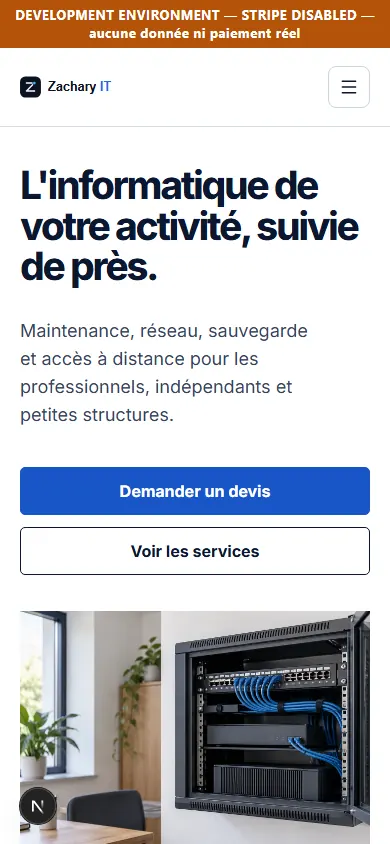
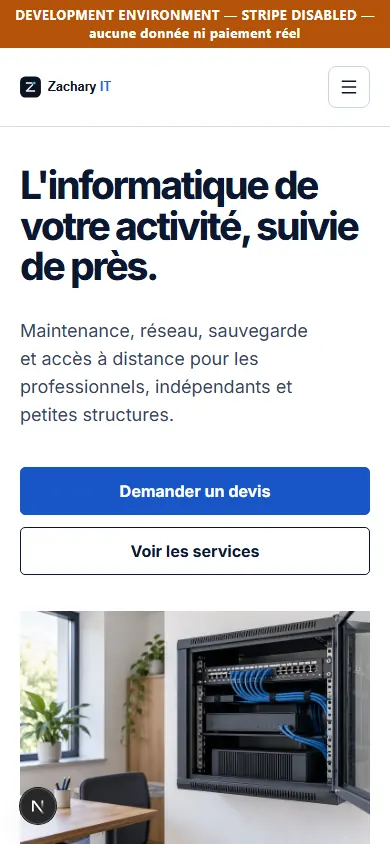
fix(web): stabiliser le chargement et réparer le parcours accès distant

Changed region(s): [[0.0308, 0.7085, 0.9538, 1.0]]

diff --git a/apps/webportal/app/site-refonte.css b/apps/webportal/app/site-refonte.css
@@ -94,7 +94,8 @@ button:disabled { cursor: not-allowed; }
 .vitrine-hero-2026 .button-secondary { border-color: var(--site-ink); color: var(--site-ink); background: transparent; }
 .vitrine-hero-2026 .button-secondary:hover,
 .vitrine-hero-2026 .button-secondary:focus-visible { border-color: var(--site-blue); color: var(--site-blue); background: transparent; }
-.vitrine-hero-media { width: 100%; min-height: 390px; aspect-ratio: 1.5; background: var(--site-soft) url('/brand/network-office-editorial.webp') center / cover no-repeat; }
+.vitrine-hero-media { width: 100%; background: var(--site-soft); }
+.vitrine-hero-media img { display: block; width: 100%; height: auto; aspect-ratio: 3 / 2; object-fit: cover; }
 
 .vitrine-audiences,
 .vitrine-method,
@@ -194,6 +195,25 @@ button:disabled { cursor: not-allowed; }
 .public-main .service-cta .button-secondary:hover { color: var(--site-ink); background: #fff; }
 .public-main .service-category-proof p { color: var(--site-body); }
 
+.compare-guide { width: min(var(--site-content), 100%); margin-inline: auto; }
+.compare-guide-header { max-width: 940px; padding: 0 0 56px; }
+.compare-guide-header h1 { margin: 0 0 22px; font-size: clamp(40px, 4.4vw, 64px); line-height: 1.08; }
+.compare-guide-header p { max-width: 68ch; margin: 0; color: var(--site-body); font-size: 19px; line-height: 1.6; }
+.compare-guide-options { display: grid; grid-template-columns: repeat(2, minmax(0, 1fr)); gap: 44px; }
+.compare-guide-options section { padding-block: 28px; border-top: 1px solid var(--site-line); }
+.compare-guide-options h2 { margin: 0 0 16px; font-size: clamp(26px, 2.6vw, 36px); }
+.compare-guide-options p { max-width: 60ch; color: var(--site-body); line-height: 1.65; }
+.compare-guide-options a { margin-top: 8px; }
+.compare-guide-questions { display: grid; grid-template-columns: minmax(240px, .8fr) minmax(0, 1.2fr); gap: 60px; padding-block: var(--site-section); border-top: 1px solid var(--site-line); }
+.compare-guide-questions h2 { font-size: clamp(28px, 3vw, 40px); line-height: 1.2; }
+.compare-guide-questions p { color: var(--site-body); }
+.compare-guide-questions ul { display: grid; gap: 0; margin: 0; padding: 0; list-style: none; }
+.compare-guide-questions li { padding: 18px 0; border-top: 1px solid var(--site-line); font-weight: 600; }
+.compare-guide-next { display: flex; align-items: center; justify-content: space-between; gap: 32px; padding: 36px; color: #fff; background: var(--site-ink); }
+.compare-guide-next h2 { color: #fff; font-size: 30px; }
+.compare-guide-next p { max-width: 65ch; margin: 0; color: #d3ddec; }
+.compare-guide-next .button { flex: 0 0 auto; }
+
 /* Commercial pages keep server prices and actions but lose repeated tiles. */
 .offres-page { left: auto; width: min(var(--site-content), 100%); overflow-x: clip; transform: none; gap: 54px; }
 .offres-page > *,
@@ -282,6 +302,13 @@ button:disabled { cursor: not-allowed; }
 .app-content .metric-card,
 .app-content .form-card { border-color: var(--site-line); border-radius: var(--site-radius); box-shadow: none; }
 .app-content .button { border-radius: var(--site-radius); }
+.route-loading-shell { width: 100%; padding-top: 24px; }
+.page-builder-live-preview .vitrine-hero-2026 { grid-template-columns: 1fr; min-height: 0; padding: 24px; background: var(--site-white); }
+.page-builder-live-preview .vitrine-hero-2026::before,
+.page-builder-live-preview .vitrine-hero-media { display: none; }
+.page-builder-live-preview .vitrine-hero-2026 .vitrine-hero-copy h1 { color: var(--site-ink); font-size: clamp(26px, 3vw, 36px); }
+.page-builder-live-preview .vitrine-hero-2026 .vitrine-hero-lead { color: var(--site-body); }
+.page-builder-live-preview .vitrine-hero-2026 .button-secondary { border-color: var(--site-ink); color: var(--site-ink); }
 
 @media (max-width: 1100px) {
   .public-header-inner { width: calc(100% - 2 * var(--site-gutter)); }
@@ -295,7 +322,7 @@ button:disabled { cursor: not-allowed; }
 @media (max-width: 820px) {
   .vitrine-hero-2026 { min-height: 0; grid-template-columns: 1fr; gap: 36px; padding-block: 50px; }
   .vitrine-hero-copy { max-width: 700px; }
-  .vitrine-hero-media { min-height: 320px; aspect-ratio: 1.8; }
+  .vitrine-hero-media { min-height: 0; aspect-ratio: auto; }
   .vitrine-services,
   .services-landing-page .service-problem-routing { grid-template-columns: 1fr; gap: 28px; }
   .vitrine-audiences-grid,
@@ -312,6 +339,9 @@ button:disabled { cursor: not-allowed; }
   .contact-page .site-page-widget-contact_form,
   .contact-page .signup-steps-card { grid-column: 1; }
   .contact-page .signup-steps-card { grid-row: auto; margin-top: 40px; padding: 25px 0 0; border-left: 0; border-top: 1px solid var(--site-line); }
+  .compare-guide-options,
+  .compare-guide-questions { grid-template-columns: 1fr; gap: 24px; }
+  .compare-guide-next { align-items: flex-start; flex-direction: column; }
 }
 
 @media (max-width: 600px) {
@@ -323,7 +353,7 @@ button:disabled { cursor: not-allowed; }
   .vitrine-hero-2026 .vitrine-hero-copy h1 { font-size: clamp(36px, 10vw, 48px); }
   .vitrine-hero-2026 .vitrine-hero-actions { display: grid; width: 100%; }
   .vitrine-hero-2026 .vitrine-hero-actions .button { width: 100%; justify-content: center; }
-  .vitrine-hero-media { min-height: 245px; aspect-ratio: 1.35; }
+  .vitrine-hero-media { min-height: 0; aspect-ratio: auto; }
   .vitrine-service-card { grid-template-columns: 1fr; }
   .vitrine-service-card a { grid-column: 1; grid-row: auto; }
   .services-landing-page .services-problem-grid article { grid-template-columns: 1fr; }

diff --git a/apps/webportal/app/vpn-ou-bureau-a-distance-que-choisir/page.tsx b/apps/webportal/app/vpn-ou-bureau-a-distance-que-choisir/page.tsx
@@ -1,0 +1,90 @@
+import type { Metadata } from "next";
+import Link from "next/link";
+
+import { ServiceBreadcrumb } from "@/components/PublicServiceComponents";
+import { buildPublicMetadata } from "@/lib/public-metadata";
+import { PUBLIC_SITE_URL } from "@/lib/public-route-config";
+import { breadcrumbJsonLd, JsonLd } from "@/lib/seo";
+
+const path = "/vpn-ou-bureau-a-distance-que-choisir";
+
+export const metadata: Metadata = buildPublicMetadata({
+  title: "VPN ou bureau Windows à distance : choisir selon vos usages",
+  description: "Accès VPN ou bureau Windows à distance : comprenez ce que chaque solution permet et les points à vérifier pour votre activité avec Zachary IT.",
+  path,
+});
+
+export const dynamic = "force-dynamic";
+
+const breadcrumb = [
+  { name: "Services", path: "/services" },
+  { name: "Accès à distance", path },
+];
+
+export default function RemoteAccessComparisonPage() {
+  return (
+    <>
+      <JsonLd data={breadcrumbJsonLd(PUBLIC_SITE_URL, breadcrumb)} />
+      <article className="compare-guide">
+        <ServiceBreadcrumb items={breadcrumb} />
+        <header className="compare-guide-header">
+          <h1>VPN ou bureau Windows à distance : que choisir ?</h1>
+          <p>
+            Ces deux solutions permettent de travailler hors des locaux, mais
+            elles ne donnent pas accès aux outils de la même manière. Le bon
+            choix dépend de vos logiciels, de vos fichiers et des personnes concernées.
+          </p>
+        </header>
+
+        <div className="compare-guide-options">
+          <section aria-labelledby="vpn-guide-title">
+            <h2 id="vpn-guide-title">Accès VPN</h2>
+            <p>
+              Vous gardez votre poste habituel. Une connexion privée vous donne
+              accès aux fichiers ou services autorisés, sans les ouvrir à tout Internet.
+              Les droits des utilisateurs et les ressources accessibles sont à définir.
+            </p>
+            <Link className="service-inline-link" href="/services/vpn-entreprise">
+              Découvrir l&apos;accès VPN
+            </Link>
+          </section>
+          <section aria-labelledby="desktop-guide-title">
+            <h2 id="desktop-guide-title">Bureau Windows à distance</h2>
+            <p>
+              Vous ouvrez un environnement Windows complet depuis un autre appareil.
+              Les logiciels s&apos;exécutent dans ce bureau distant ; il faut vérifier
+              les applications, les données et les périphériques à utiliser.
+            </p>
+            <Link className="service-inline-link" href="/services/bureau-windows-distance">
+              Découvrir le bureau à distance
+            </Link>
+          </section>
+        </div>
+
+        <section className="compare-guide-questions" aria-labelledby="guide-questions-title">
+          <div>
+            <h2 id="guide-questions-title">Les questions à trancher avant un devis</h2>
+            <p>Décrivez les usages avant de choisir une technologie ou une offre.</p>
+          </div>
+          <ul>
+            <li>Quels logiciels doivent fonctionner à distance ?</li>
+            <li>Quels fichiers et services chaque personne doit-elle retrouver ?</li>
+            <li>Combien de personnes et quels appareils sont concernés ?</li>
+            <li>Qui administrera les accès, les mises à jour et les sauvegardes ?</li>
+          </ul>
+        </section>
+
+        <section className="compare-guide-next" aria-labelledby="guide-next-title">
+          <div>
+            <h2 id="guide-next-title">Parlons de votre situation</h2>
+            <p>
+              Un accès distant ne remplace pas la sauvegarde des données. Décrivez
+              votre environnement et nous préciserons le périmètre utile.
+            </p>
+          </div>
+          <Link className="button" href="/contact">Demander un devis</Link>
+        </section>
+      </article>
+    </>
+  );
+}

diff --git a/apps/webportal/components/SitePageFrame.tsx b/apps/webportal/components/SitePageFrame.tsx
@@ -66,7 +66,12 @@ function SitePageBlockView({ block, area, slots, preview, previewLabels }: {
         <div className="vitrine-hero-actions">
           {block.href ? <Link className="button" href={block.href}>{block.label ?? "Découvrir"}</Link> : null}
           {items[0]?.href ? <Link className="button button-secondary" href={items[0].href}>{items[0].title}</Link> : null}
-        </div></div><div aria-hidden="true" className="vitrine-hero-media" style={block.mediaId ? { backgroundImage: `url(/api/site-media/${encodeURIComponent(block.mediaId)})` } : undefined} />
+        </div></div><div aria-hidden="true" className="vitrine-hero-media">
+          <Image alt="" fetchPriority="high" height={1024} loading="eager"
+            sizes="(max-width: 820px) 100vw, 50vw"
+            src={block.mediaId ? `/api/site-media/${encodeURIComponent(block.mediaId)}` : "/brand/network-office-editorial.webp"}
+            unoptimized width={1536} />
+        </div>
     </div></section>;
   if (block.type === "audiences") return <section className="vitrine-audiences vitrine-audiences-first">
     <header className="vitrine-section-header"><h2>{block.title}</h2><p>{block.body}</p></header>

diff --git a/apps/webportal/app/page.tsx b/apps/webportal/app/page.tsx
@@ -1,5 +1,6 @@
 import type { Metadata } from "next";
 import Link from "next/link";
+import Image from "next/image";
 import { headers } from "next/headers";
 import { notFound, redirect } from "next/navigation";
 
@@ -186,7 +187,18 @@ export default async function HomePage() {
               </Link>
             </div>
           </div>
-          <div aria-hidden="true" className="vitrine-hero-media" />
+          <div aria-hidden="true" className="vitrine-hero-media">
+            <Image
+              alt=""
+              fetchPriority="high"
+              height={1024}
+              loading="eager"
+              sizes="(max-width: 820px) 100vw, 50vw"
+              src="/brand/network-office-editorial.webp"
+              unoptimized
+              width={1536}
+            />
+          </div>
         </div>
       </section>
 

diff --git a/apps/webportal/app/sitemap.ts b/apps/webportal/app/sitemap.ts
@@ -38,6 +38,7 @@ const PUBLIC_ROUTE_ENTRIES: PublicRouteEntry[] = [
   { path: "/", changeFrequency: "monthly", priority: 1 },
   { path: "/offres", changeFrequency: "weekly", priority: 0.9 },
   { path: "/services", changeFrequency: "monthly", priority: 0.9, contentKey: "storefront:services" },
+  { path: "/vpn-ou-bureau-a-distance-que-choisir", changeFrequency: "monthly", priority: 0.7 },
   { path: "/tarifs", changeFrequency: "monthly", priority: 0.85, contentKey: "storefront:tarifs" },
   // Les pages `/formules/<code>` ne sont pas declarees : ce sont des
   // configurateurs dont le contenu depend d'une selection, pas des pages

diff --git a/apps/webportal/app/loading.tsx b/apps/webportal/app/loading.tsx
@@ -2,9 +2,11 @@ import { LoadingState } from "@/components/LoadingState";
 
 export default function Loading() {
   return (
-    <LoadingState
-      description="Votre espace client prépare les informations demandées."
-      title="Chargement de votre espace"
-    />
+    <div className="route-loading-shell" style={{ minHeight: "100vh" }}>
+      <LoadingState
+        description="Les informations de cette page sont en cours de récupération."
+        title="Chargement de la page"
+      />
+    </div>
   );
 }

diff --git a/apps/webportal/lib/public-route-config.ts b/apps/webportal/lib/public-route-config.ts
@@ -18,6 +18,7 @@ export const PUBLIC_ROUTES = [
   // La même route reste l'espace « Mes services » sur l'hôte dashboard.
   // AppShell sélectionne le shell selon l'hôte pour préserver ce parcours.
   "/services",
+  "/vpn-ou-bureau-a-distance-que-choisir",
   "/wiki",
   "/decouvrir-espace-client",
   "/mentions-legales",

diff --git a/apps/webportal/app/layout.tsx b/apps/webportal/app/layout.tsx
@@ -23,6 +23,7 @@ const inter = localFont({
 const jetbrainsMono = localFont({
   src: "../assets/fonts/jetbrains-mono-latin-variable.woff2",
   display: "swap",
+  preload: false,
   weight: "100 800",
   variable: "--font-jetbrains-mono",
 });

diff --git a/docs/audit-site.md b/docs/audit-site.md
@@ -1,7 +1,8 @@
 # Audit initial du site Zachary IT
 
-**Date :** 28 octobre 2026  
-**Base examinée :** `main` à `5ce2898`, puis branche `codex/zachary-it-refonte`.  
+**Date :** 28 octobre 2026
+
+**Base examinée :** `main` à `5ce2898`, puis branche `codex/zachary-it-refonte`.
 **Périmètre :** vitrine Next.js, parcours publics, enveloppes client/admin, contenu éditorial, BFF et dépendances utiles à la refonte. Les données CMS persistées et les parcours authentifiés de DEV demandent une vérification distincte ; l'analyse du dépôt ne les prouve pas.
 
 ## État initial et méthode
@@ -33,7 +34,9 @@ Les constats ci-dessous sont classés **VALIDE**, **FAUX POSITIF** ou **INCERTAI
 | **VALIDE** | L'accueil contient deux sources de texte : `app/page.tsx:36-99` et `Services/SitePageService.cs:684-735`. `SitePageFrame.tsx:36-45` affiche les blocs CMS quand un layout existe ; il n'affiche le JSX de repli qu'en son absence. | Modifier uniquement `page.tsx` ne change pas l'accueil CMS existant. La publication d'un nouveau layout en base reste une opération distincte. | Aligner le rendu, le repli et les valeurs initiales ; vérifier séparément les contenus persistés de DEV. Préserver les personnalisations CMS. |
 | **VALIDE** | La page d'accueil ouvre avec « Une informatique fiable, simplement » et une liste générique de cinq besoins (`app/page.tsx:173-237`, mêmes blocs dans `SitePageService.cs`). Les liens des trois publics mènent tous à `/services`. | L'activité B2B et les prestations concrètes restent peu visibles ; le visiteur doit chercher le parcours approprié. | Énoncer immédiatement l'offre et le public, lier chaque besoin à une page utile, réduire les répétitions et hiérarchiser les parcours. |
 | **VALIDE** | `app/globals.css` dépasse 10 000 lignes et redéfinit les mêmes familles de sélecteurs à plusieurs endroits, par exemple `.vitrine-hero-2026` vers 9824 puis dans plusieurs media queries, `.public-main` vers 6140 et 9794, `.app-shell` vers 128 et 9608. | Cascade difficile à prédire ; corrections visuelles fragiles sur les pages et en responsive. | Extraire une couche de refonte ciblée avec tokens, composants et media queries cohérents ; supprimer les règles remplacées lorsqu'elles sont sûres à retirer. |
+| **VALIDE** | `app/loading.tsx` annonçait « Votre espace client » pendant le chargement de la vitrine. La séquence filmée par Lighthouse sur DEV montre d'abord un petit panneau et le pied de page dans le premier écran, puis l'accueil qui les remplace. Mesure DEV avant livraison : CLS `0,853`. | Message inadapté et fort décalage visuel avant la page réelle. | Employer un libellé neutre et réserver la hauteur de l'écran pendant le chargement ; remesurer sur la même configuration. |
 | **VALIDE** | `PublicShell.tsx:169-190` présente « Offres », « Tarifs », « À propos » et un méga menu de services, mais « Contact » est enfoui dans un CTA long. Le pied de page `PublicShell.tsx:200-244` répète plusieurs chemins et intitulés. | Navigation peu lisible pour les décideurs qui veulent comprendre les prestations, puis demander un devis. | Clarifier les entrées principales, raccourcir le CTA, organiser le pied de page par tâche, garder les routes et la connexion existantes. |
+| **VALIDE** | Le besoin « Je dois travailler à distance » dans `lib/storefront-content.ts` et le lien « Voir le comparatif détaillé » de `PublicPriorityServicePage.tsx` menaient à `/vpn-ou-bureau-a-distance-que-choisir`. Cette URL renvoyait HTTP 404 sur `dev.zachary-it.fr` le 28 octobre 2026 ; le navigateur local relevait aussi son préchargement en 404. | Deux chemins publics aboutissaient à une page inexistante. | Créer une vraie page de comparaison, avec liens vers les deux prestations existantes, puis ajouter la route à la liste publique et au sitemap. |
 
 ## Moyen
 
@@ -41,6 +44,7 @@ Les constats ci-dessous sont classés **VALIDE**, **FAUX POSITIF** ou **INCERTAI
 | --- | --- | --- | --- |
 | **VALIDE** | `app/globals.css:4592-4739` donne aux étapes, services et publics des grilles de cartes de forme presque identique. `:9931-9948` leur applique encore une même surface et ombre. | Rythme visuel monotone et aspect de gabarit assemblé. | Employer des listes éditoriales, séparateurs et blocs de service distincts ; limiter les cartes aux contenus qui le justifient. |
 | **VALIDE** | Le hero public est une image de fond `home-hero-2026.png` posée derrière le texte (`globals.css:9824-9844`) ; au plus petit écran l'image reste en fond et le `photo-spacer` disparaît (`:9877-9881`). | Lisibilité et cadrage dépendent de la photo et de la largeur. | Construire un hero à deux zones avec média réellement séparé et texte sur fond uni ; vérifier les points de rupture. |
+| **VALIDE** | Sur une compilation locale optimisée, Lighthouse signale environ 259 Ko de CSS dans le principal fichier de styles et estime 95 % de règles non utilisées sur l'accueil (`unused-css-rules`). | FCP/LCP pénalisés sur la première visite ; le CSS historique couvre tout le portail dans le layout racine. | Garder la refonte dans une couche claire puis extraire progressivement les styles hérités par route ou groupe de routes, avec tests de régression client/admin. Cette extraction générale n'est pas contenue dans le présent lot. |
 | **VALIDE** | Le contact est un seul bloc de 720 px (`globals.css:6006-6009`) ; les « étapes » et autres liens passent après le formulaire dans `SitePageService.cs:115-140`. | Le visiteur doit remplir le formulaire avant de savoir ce qu'il se passe ensuite. | Présenter une introduction et le déroulement près du formulaire, sans ajouter de promesse de délai non vérifiée. |
 | **VALIDE** | `PublicStorefrontPage.tsx:91-123` et `PublicServicesLandingPage.tsx:44-56` répètent une surétiquette « Zachary IT » avant le H1 ; `app/offres/page.tsx:59-82` emploie en plus « Nouveau » et « Espace client ». | Signal visuel répétitif et concurrence avec le vrai titre. | Supprimer les surétiquettes décoratives ; faire porter les différences par les titres et le contenu. |
 | **VALIDE** | `PublicPackCatalogService.cs:163` et `packages/shared/src/index.ts:1705` qualifiaient les tarifs du catalogue de « hors taxes », tandis que `PublicPackCard.tsx` et le tableau public affichent le point de départ « TTC / mois ». | Note commerciale contradictoire pour un visiteur qui compare les offres. | Retirer la qualification fiscale générique du texte éditorial ; laisser le prix et la taxe affichés provenir du catalogue et du moteur serveur. |

diff --git a/docs/charte-site.md b/docs/charte-site.md
@@ -10,7 +10,9 @@ Le parti pris est éditorial : fond blanc, encre bleu nuit, bleu de lien et de d
 
 La couche `apps/webportal/app/site-refonte.css` est importée après `globals.css`. Elle contient les règles nouvelles du site et les variables `--site-*`, sans changer les alias métier ni les styles des écrans transactionnels qui n'ont pas été réexaminés. Les couleurs principales sont : encre `#0b1730`, texte `#35445c`, bleu d'action `#1956c8`, trait `#d6deea`, bande douce `#eef3f9` et blanc `#fff`. L'accent orange `#f49b28` sert au focus clavier, afin que celui-ci soit visible sur fond blanc comme sur fond bleu nuit.
 
-Le contenu public ne dépasse pas `1240px`; la marge latérale varie avec l'écran. Les titres ont une échelle plus marquée que les libellés d'interface, avec un interlignage serré et des lignes courtes. Les paragraphes restent entre 15 et 19px selon leur rôle. Les boutons ont une hauteur minimale de 48px, des bords peu arrondis et un état de survol sans déplacement décoratif. Les champs du contact conservent leurs labels visibles, erreurs associées et focus. Le menu mobile garde son bouton, son état `aria-expanded` et sa fermeture par Échap.
+Le contenu public ne dépasse pas `1360px`; la marge latérale varie avec l'écran. Les titres ont une échelle plus marquée que les libellés d'interface, avec un interlignage serré et des lignes courtes. Les paragraphes restent entre 15 et 19px selon leur rôle. Les boutons ont une hauteur minimale de 48px, des bords peu arrondis et un état de survol sans déplacement décoratif. Les champs du contact conservent leurs labels visibles, erreurs associées et focus. Le menu mobile garde son bouton, son état `aria-expanded` et sa fermeture par Échap.
+
+L'image de l'accueil possède des dimensions réservées dans le HTML et une priorité de chargement élevée. Pendant une navigation qui attend des données, `app/loading.tsx` réserve au moins une hauteur d'écran et emploie un message neutre ; le pied de page ne saute plus dans le premier écran avant le vrai contenu. La police monospace des zones techniques ne doit pas être préchargée sur toutes les pages publiques.
 
 À 820px, le hero et les zones à deux colonnes se replient. À 600px, les listes et les offres passent sur une colonne, les actions remplissent la largeur utile et les séparateurs gardent une lecture claire. Les préférences de réduction des mouvements sont respectées.
 
@@ -18,6 +20,7 @@ Le contenu public ne dépasse pas `1240px`; la marge latérale varie avec l'écr
 
 - **Accueil :** titre explicite, action « Demander un devis », accès direct aux services, besoins professionnels identifiés. L'image est dans sa propre colonne et ne porte aucun texte ; elle illustre un équipement réseau générique, pas une installation ou une personne de Zachary IT.
 - **Services :** le lecteur peut partir d'un problème ou d'une famille de prestations. Les entrées conservent leurs destinations existantes et les contenus administrables restent la source des fiches.
+- **Accès distant :** le lien de comparaison déjà présent dans les parcours mène désormais à une page réelle qui distingue VPN et bureau Windows à distance, sans prix ni engagement inventé.
 - **Offres et tarifs :** les prix, options, statuts de commande et actions sont toujours fournis par l'API. La page les présente avec moins de surfaces décoratives. Le récapitulatif éditorial ne qualifie plus tous les prix de HT lorsque les composants affichent du TTC.
 - **Contact :** formulaire réel à gauche et déroulement à droite sur ordinateur ; une seule colonne sur mobile. Aucun délai de réponse n'est annoncé. Les retours d'erreur et de succès du BFF restent en place.
 - **Espaces client et admin :** la navigation et les actions restent inchangées ; les fonds, séparateurs, panneaux et contrôles reprennent les tokens de la vitrine. L'absence de session de test n'est pas une preuve de recette complète des écrans authentifiés.
@@ -44,4 +47,4 @@ Les concepts et captures de travail sont conservés hors dépôt dans `C:\Users\
 | Contact | Formulaire à gauche, étapes à droite | Même architecture sur desktop, une colonne sur mobile | Le sujet reste un champ libre réel, avec nom ou raison sociale et note de confidentialité. |
 | Responsive | Colonnes repliées et actions accessibles | 320, 390, 768 et 1440 px contrôlés sans débordement global ; comparatif d'offres défilant dans son propre conteneur | Aucune fonctionnalité n'est masquée pour obtenir le rendu. |
 
-Les réparations de la boucle visuelle ont porté sur la largeur du hero CMS, son cadrage, la hauteur du premier écran, les couleurs des CTA sombres, la colonne explicative du contact et le débordement du comparatif. Les différences restantes ci-dessus sont intentionnelles et liées aux parcours réels. Le rendu final des surfaces publiques examinées suit fidèlement la direction acceptée pour ce chantier.
+Les réparations de la boucle visuelle ont porté sur la largeur du hero CMS, son cadrage, la hauteur du premier écran, les couleurs des CTA sombres, la colonne explicative du contact et le débordement du comparatif. Les différences restantes ci-dessus sont intentionnelles et liées aux parcours réels. Le rendu final des surfaces publiques examinées suit fidèlement la direction retenue pour ce chantier.
